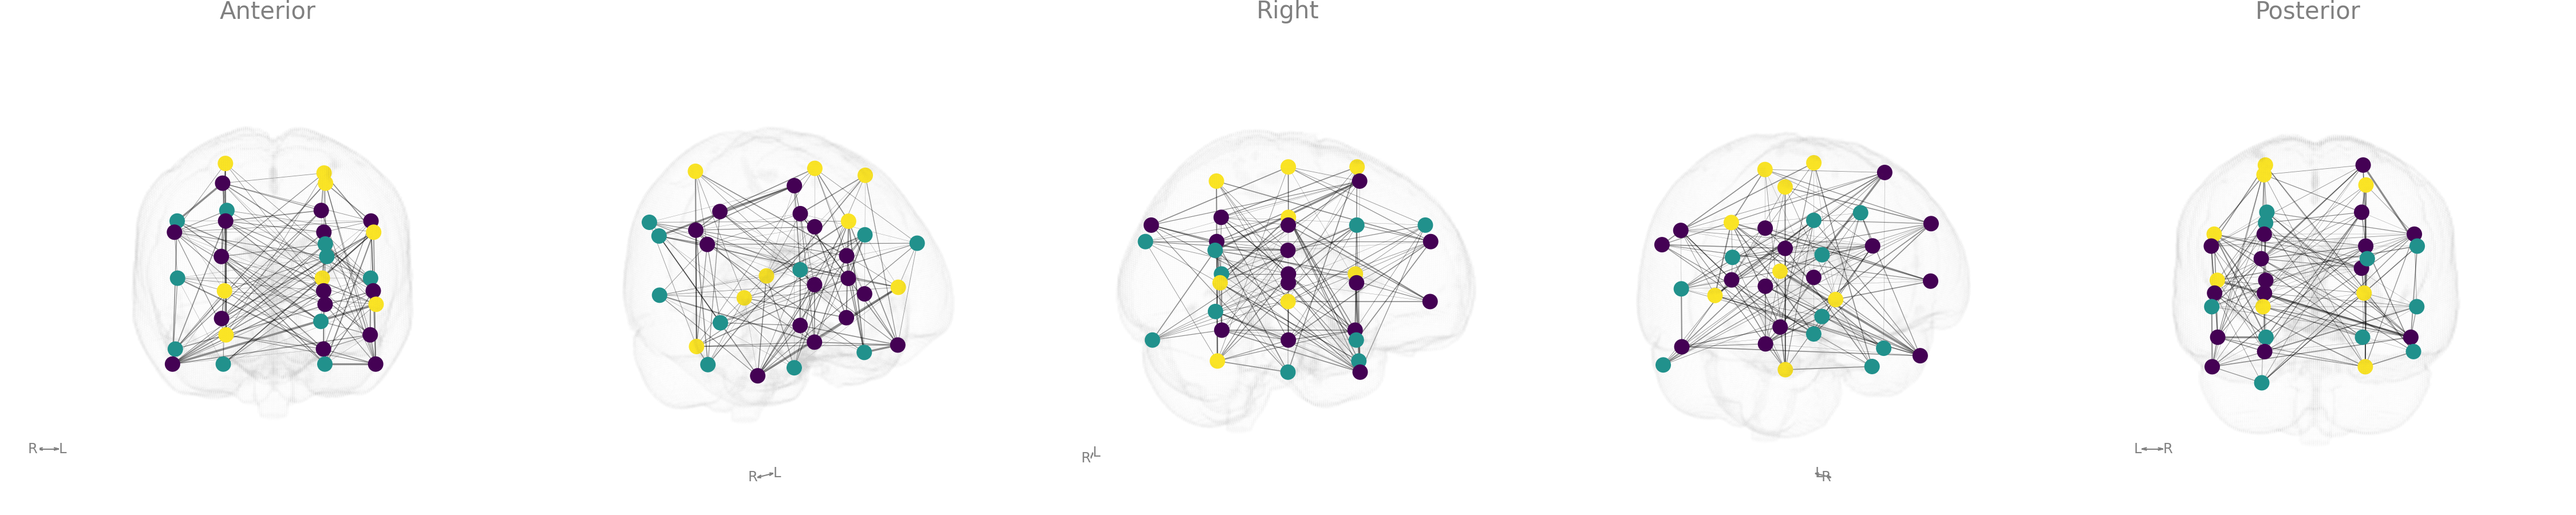
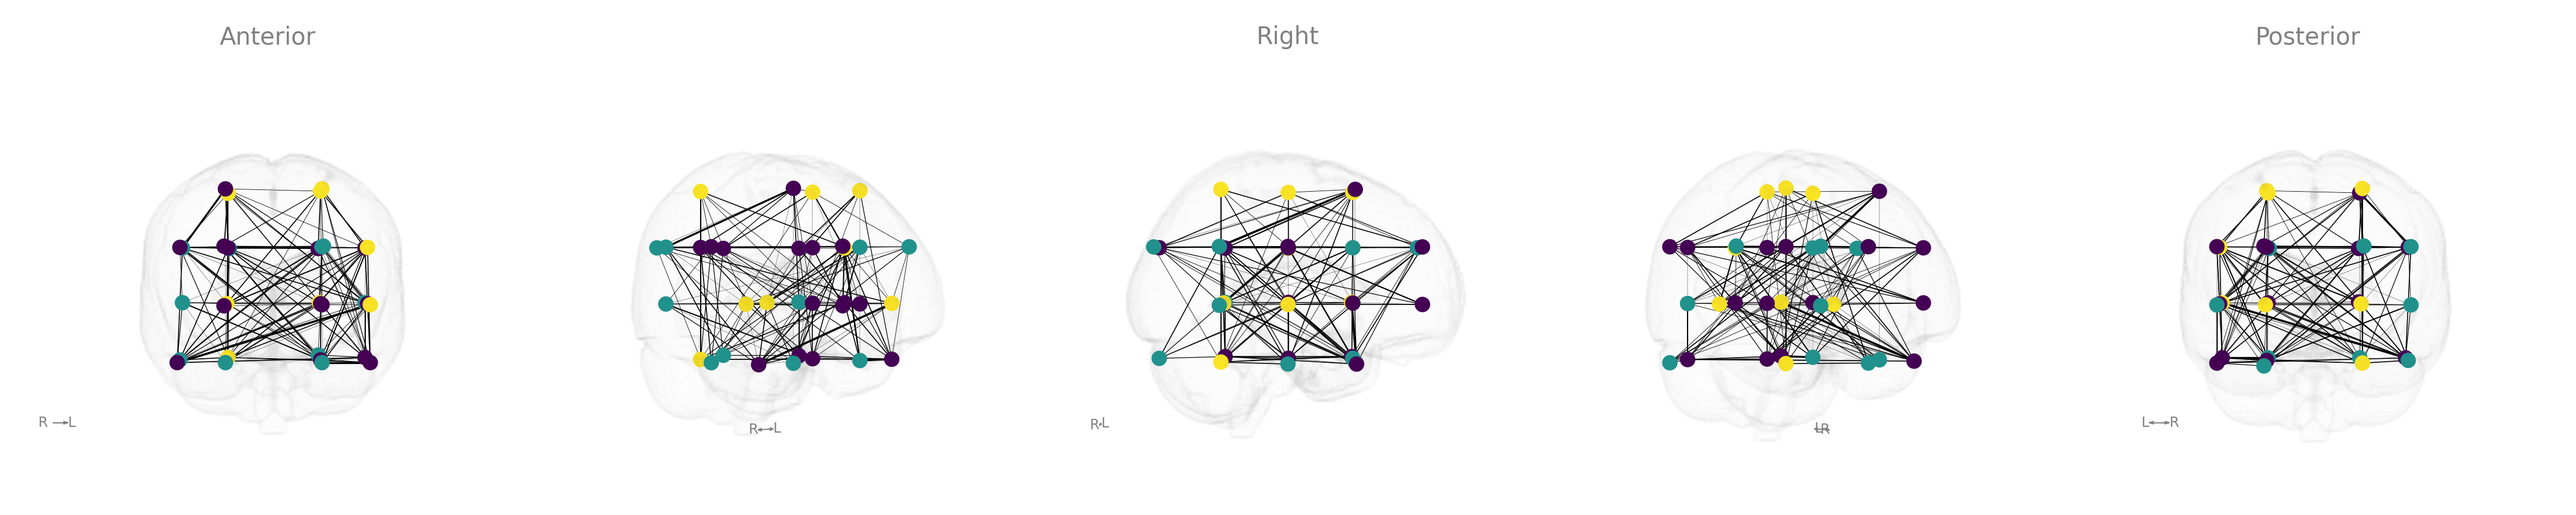
views figures and code

diff --git a/views.py b/views.py
@@ -12,16 +12,14 @@ edges = pd.read_csv('./example_edges.tsv', sep='\t', index_col=0)
 # 6 views on multiple rows
 netplotbrain.plot(nodes=nodes,
                   edges=edges,
-                  edgescale=5,
-                  edgealpha=3,
+                  edge_scale=5,
                   template='MNI152NLin6Asym',
-                  templatestyle='glass',
+                  template_style='glass',
                   view='preset-6',
-                  nodecolor='community',
-                  nodecmap='viridis',
-                  nodetype='circles',
-                  nodescale=30,
-                  nodealpha=1,
+                  node_color='community',
+                  node_cmap='viridis',
+                  node_scale=30,
+                  node_alpha=1,
                   arrowaxis=None,
                   showlegend=False)
 
@@ -30,16 +28,14 @@ plt.savefig('./figures/preset6.png', dpi=300)
 # 4 views on multiple rows
 netplotbrain.plot(nodes=nodes,
                   edges=edges,
-                  edgescale=5,
-                  edgealpha=3,
+                  edge_scale=5,
                   template='MNI152NLin6Asym',
-                  templatestyle='glass',
+                  template_style='glass',
                   view='preset-4',
-                  nodecolor='community',
-                  nodecmap='viridis',
-                  nodetype='circles',
-                  nodescale=30,
-                  nodealpha=1,
+                  node_color='community',
+                  node_cmap='viridis',
+                  node_scale=30,
+                  node_alpha=1,
                   arrowaxis=None,
                   showlegend=False)
 
@@ -48,17 +44,15 @@ plt.savefig('./figures/preset4.png', dpi=300)
 # Rotations AP with 4 frames
 netplotbrain.plot(nodes=nodes,
                   edges=edges,
-                  edgescale=5,
-                  edgealpha=3,
+                  edge_scale=5,
                   template='MNI152NLin6Asym',
-                  templatestyle='glass',
-                  view=['AP'],
+                  template_style='glass',
+                  view='AP',
                   frames=4,
-                  nodecolor='community',
-                  nodecmap='viridis',
-                  nodetype='circles',
-                  nodescale=30,
-                  nodealpha=1,
+                  node_color='community',
+                  node_cmap='viridis',
+                  node_scale=30,
+                  node_alpha=1,
                   showlegend=False)
 
 plt.savefig('./figures/4framesrot.png', dpi=300)
@@ -66,17 +60,15 @@ plt.savefig('./figures/4framesrot.png', dpi=300)
 # Rotations AP with 5 frames
 netplotbrain.plot(nodes=nodes,
                   edges=edges,
-                  edgescale=5,
-                  edgealpha=3,
+                  edge_scale=5,
                   template='MNI152NLin6Asym',
-                  templatestyle='glass',
-                  view=['AP'],
+                  template_style='glass',
+                  view='AP',
                   frames=5,
-                  nodecolor='community',
-                  nodecmap='viridis',
-                  nodetype='circles',
-                  nodescale=30,
-                  nodealpha=1,
+                  node_color='community',
+                  node_cmap='viridis',
+                  node_scale=30,
+                  node_alpha=1,
                   showlegend=False)
 
 plt.savefig('./figures/5framesrot.png', dpi=300)
